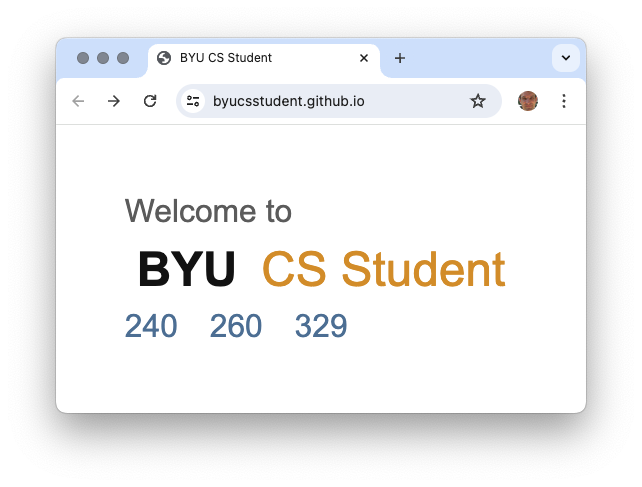
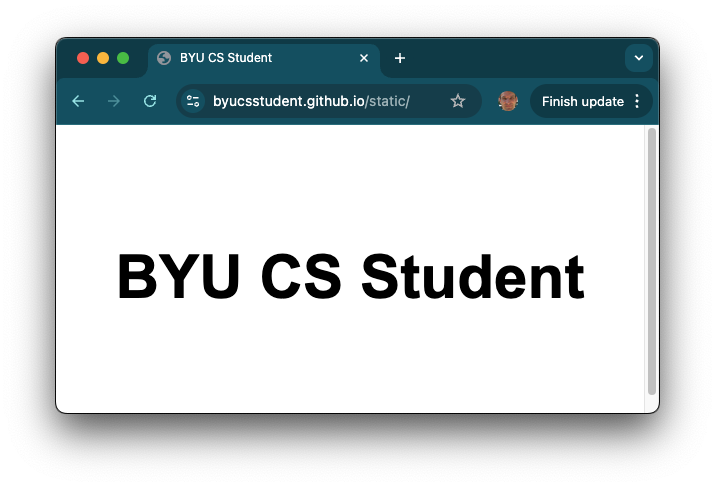
enhance(githubpages) to simplify assignment

diff --git a/instruction/gitHubPages/gitHubPages.md b/instruction/gitHubPages/gitHubPages.md
@@ -55,21 +55,19 @@ In addition to hosting a static deployment for a **repository** you can also do 
 
 ![Create account GitHub pages](createAccountGitHubPages.png)
 
-You can see an example of this hosted on [https://byucsstudent.github.io](https://byucsstudent.github.io).
-
 ## ☑ Assignment
 
-Create an account level static deployment using GitHub Pages by doing the following:
+Create a GitHub Pages deployment in your GitHub account for a repository named `static`:
 
-1. Create a repository that follows the pattern: `youraccountnamehere.github.io`.
+1. Create a repository that follows the pattern: `youraccountnamehere.github.io/static`.
 1. Adding an `index.html` to the root of the repository.
 
-Once you are done, go over to Canvas and submit the URL of your account static website deployment. This should look something like this:
+Feel free to make the page as simple or as pretty as you would like. When you are done, it should look something like this:
 
 ```
-https://byucsstudent.github.io/
+https://byucsstudent.github.io/static
 ```
 
 ![Sample GitHub Pages site](sampleGitHubPagesSite.png)
 
-If you already have a static deployment on your GitHub account then just create a repository like the `static` on described above and provide the URL for that repository specific GitHub pages deployment.
+Once you are done, go over to Canvas and submit the URL of your account static website deployment.
